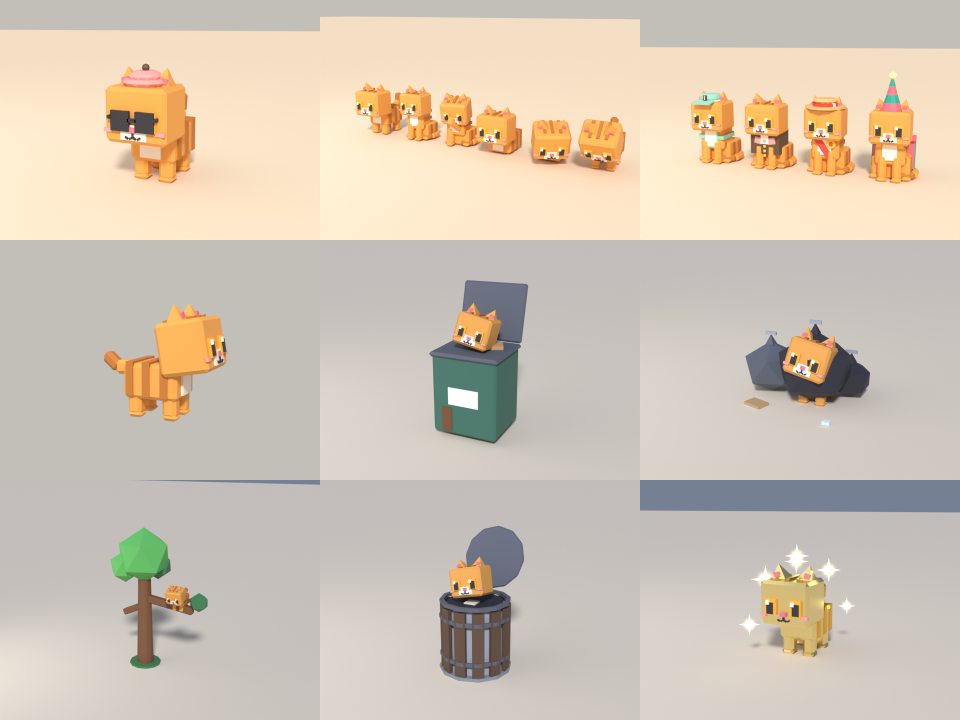
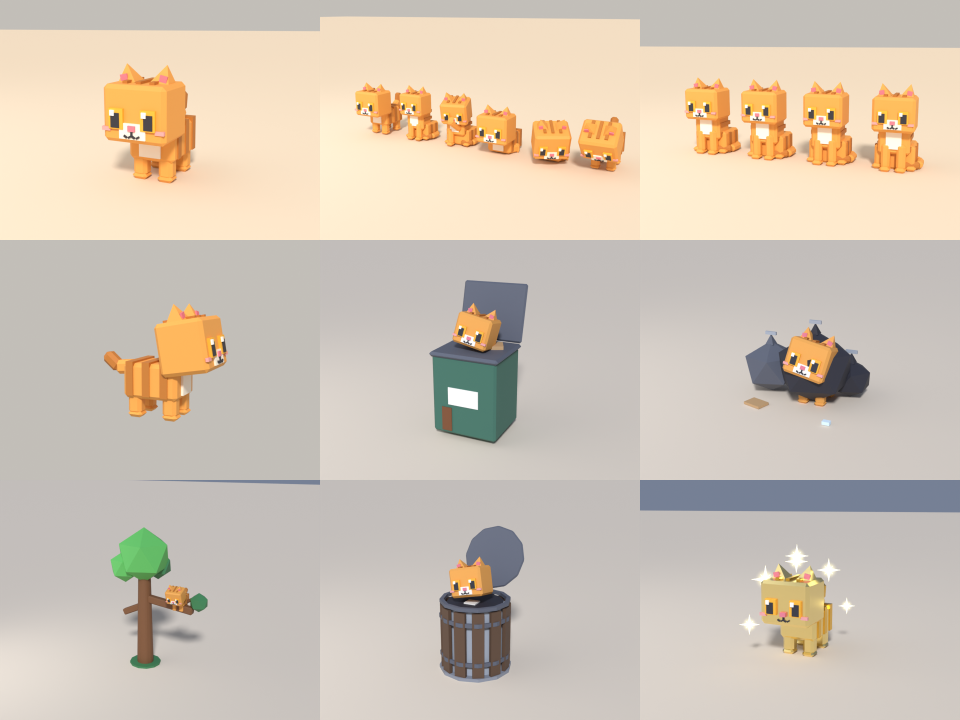
Lying cats: paws turned out at the sides, matching the game's poses
Derek asked for a lying cat's paws to show at the sides a little. The game's
Presets.catPoses (Animation-Engineer #291) turns the folded legs out with the
last Roblox angle LegF1 -30, LegF2 30, LegB1 -26, LegB2 26. CAT_POSES loaf
and sleep now share LYING_LEGS with the same turns, so the manifest's
angles_roblox_deg, the pose sheet and the game agree.

Claude-Session: https://claude.ai/code/session_019pgK9B4ra9DvizCEwxEQkX

Changed region(s): [[0.6875, 0.0917, 0.9688, 0.275], [0.0938, 0.1528, 0.1875, 0.2139], [0.125, 0.0917, 0.1875, 0.1222]]

diff --git a/assets/cat-cafe/blender/poses.py b/assets/cat-cafe/blender/poses.py
@@ -61,17 +61,18 @@ STUCK_POSES = {
 
 # Piece poses (cats.py joints). Angles are Blender XYZ degrees about each piece's joint; lift is unscaled studs.
 # lick: the left front paw (LegF1) swings forward and up to the mouth and the head tips down and toward it.
+# Lying down, the folded legs turn out a little so the paws show at the sides (Derek 2026-10-27; the game's
+# Presets.catPoses, Animation-Engineer #291: Roblox LegF1 -90, 0, -30, LegF2 -90, 0, 30, LegB1 90, 0, -26, LegB2 90, 0, 26).
+LYING_LEGS = {"LegF1": (90, 0, -30), "LegF2": (90, 0, 30), "LegB1": (-90, 0, 26), "LegB2": (-90, 0, -26)}
 CAT_POSES = {
     "lick": dict(body="sit", parts={"LegF1": (-128, -14, 0), "Head": (16, 0, 14)},
                  note="Sitting, washing a paw: the left front paw up at the mouth, head tipped down to it "
                       "(Derek 2026-10-27: the paw-up sit is licking a paw)."),
     "loaf": dict(body="walk", lift=(0, 0, -0.31),
-                 parts={"LegF1": (90, 0, 0), "LegF2": (90, 0, 0), "LegB1": (-90, 0, 0), "LegB2": (-90, 0, 0),
-                        "Tail": (-38, 0, 30)},
-                 note="Lying down, belly on the floor, paws folded under."),
+                 parts=dict(LYING_LEGS, Tail=(-38, 0, 30)),
+                 note="Lying down, belly on the floor, paws folded under and turned out so they show at the sides."),
     "sleep": dict(body="walk", lift=(0, 0, -0.31),
-                  parts={"LegF1": (90, 0, 0), "LegF2": (90, 0, 0), "LegB1": (-90, 0, 0), "LegB2": (-90, 0, 0),
-                         "Head": (24, 0, 28), "Tail": (-38, 0, 75)},
+                  parts=dict(LYING_LEGS, Head=(24, 0, 28), Tail=(-38, 0, 75)),
                   note="The loaf with the head down and turned, tail curled round the side."),
     "eat": dict(body="walk", parts={"Head": (42, 0, 0), "Tail": (-10, 0, 0)},
                 note="Standing, head down to a bowl in front of the front paws."),
